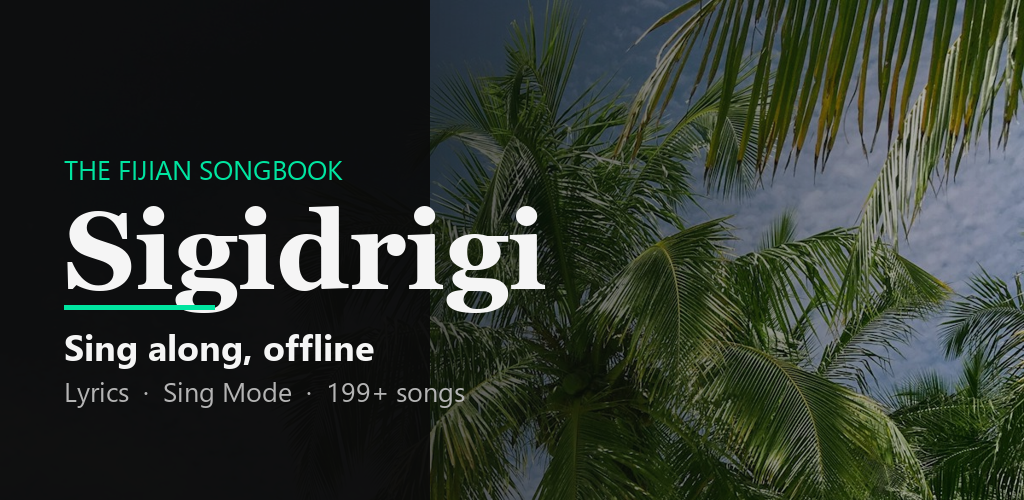
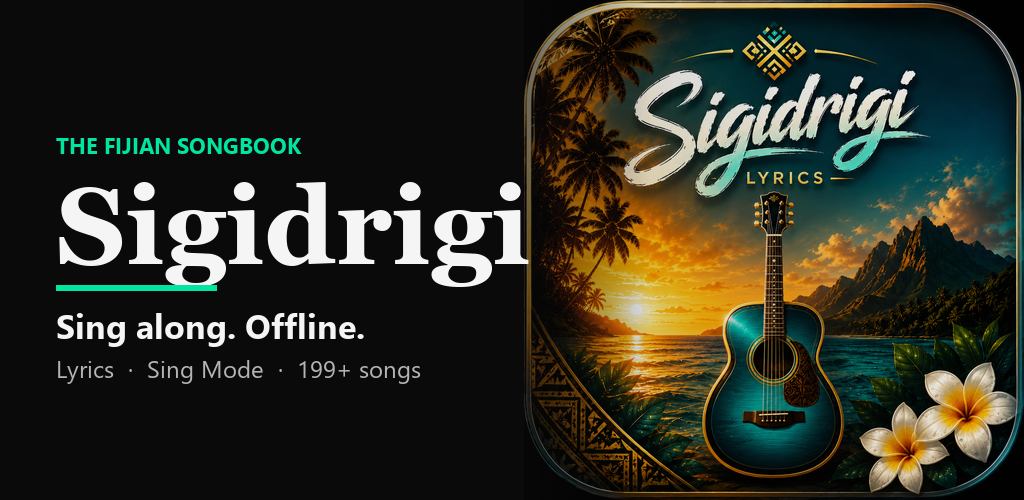
Update feature graphic to use new Sigidrigi guitar/sunset artwork

diff --git a/scripts/make_feature_graphic.py b/scripts/make_feature_graphic.py
@@ -1,6 +1,7 @@
 """Google Play feature graphic — 1024x500.
-On-brand: dark base, a Pacific photo fading in from the right, Sigidrigi
-wordmark + tagline on the left. Run: python scripts/make_feature_graphic.py
+Uses the Sigidrigi icon artwork (guitar/sunset) on the right,
+dark gradient left side for text.
+Run: python scripts/make_feature_graphic.py
 """
 import os
 from PIL import Image, ImageDraw, ImageFont
@@ -9,63 +10,56 @@ W, H = 1024, 500
 ACCENT = (0, 229, 160)
 DARK = (10, 10, 10)
 
-base = Image.new('RGB', (W, H), DARK)
+SRC = r"C:\Users\digit\OneDrive\Desktop\Template Doc\Abuild dcreens\Sigidrigi App\pics\icon.png"
 
-# Right-side photo (palm beach), scaled to cover, then darkened with a
-# left-to-right gradient so the left stays solid for text.
-photo_path = os.path.join(os.path.dirname(__file__), '..', 'public', 'images', 'cards', 'card3.jpg')
-try:
-    photo = Image.open(photo_path).convert('RGB')
-    # cover-fit to WxH
-    pr, br = photo.width / photo.height, W / H
-    if pr > br:
-        nh = H; nw = int(H * pr)
+base = Image.new("RGB", (W, H), DARK)
+
+# Load source artwork — scale to fill height, anchor right
+photo = Image.open(SRC).convert("RGB")
+scale = H / photo.height
+new_w = int(photo.width * scale)
+photo = photo.resize((new_w, H), Image.LANCZOS)
+# Paste flush to the right edge
+paste_x = W - new_w
+base.paste(photo, (paste_x, 0))
+
+# Gradient overlay: fully dark on left, fades to transparent on right
+grad = Image.new("L", (W, 1), 0)
+for x in range(W):
+    if x < 420:
+        a = 255
+    elif x < 650:
+        a = int(255 - (x - 420) / 230 * 220)
     else:
-        nw = W; nh = int(W / pr)
-    photo = photo.resize((nw, nh)).crop((0, 0, W, H))
-    base.paste(photo, (0, 0))
-
-    # Dark gradient: fully dark on the left, ~25% on the far right.
-    grad = Image.new('L', (W, 1), 0)
-    for x in range(W):
-        t = x / W
-        a = int(252 - t * (252 - 70))      # 252 → 70
-        if x < 430:                         # keep the text zone solid
-            a = 248
-        grad.putpixel((x, 0), a)
-    grad = grad.resize((W, H))
-    overlay = Image.new('RGB', (W, H), DARK)
-    base = Image.composite(overlay, base, grad)
-except FileNotFoundError:
-    pass
+        a = max(int(35 - (x - 650) / (W - 650) * 20), 15)
+    grad.putpixel((x, 0), a)
+grad = grad.resize((W, H))
+overlay = Image.new("RGB", (W, H), DARK)
+base = Image.composite(overlay, base, grad)
 
 d = ImageDraw.Draw(base)
 
-def font(path, size):
-    for p in [path, os.path.join('C:\\Windows\\Fonts', path)]:
+def font(name, size):
+    for path in [name, os.path.join("C:\\Windows\\Fonts", name)]:
         try:
-            return ImageFont.truetype(p, size)
+            return ImageFont.truetype(path, size)
         except OSError:
             continue
     return ImageFont.load_default()
 
-title_font = font('georgiab.ttf', 110)
-tag_font = font('segoeuib.ttf', 36)
-sub_font = font('segoeui.ttf', 27)
+f_kicker = font("segoeuib.ttf", 22)
+f_title  = font("georgiab.ttf", 108)
+f_tag    = font("segoeuib.ttf", 34)
+f_sub    = font("segoeui.ttf",  24)
 
-PAD = 64
-# small uppercase kicker
-d.text((PAD, 150), 'THE FIJIAN SONGBOOK', font=sub_font, fill=ACCENT)
-# wordmark
-d.text((PAD, 188), 'Sigidrigi', font=title_font, fill=(245, 245, 245))
-# tagline
-d.text((PAD, 322), 'Sing along, offline', font=tag_font, fill=(245, 245, 245))
-d.text((PAD, 372), 'Lyrics  ·  Sing Mode  ·  199+ songs', font=sub_font, fill=(180, 180, 180))
-# teal accent underline
-d.rectangle([PAD, 305, PAD + 150, 309], fill=ACCENT)
+PAD, Y = 56, 130
 
-out_dir = os.path.join(os.path.dirname(__file__), '..', 'docs', 'store-assets')
-os.makedirs(out_dir, exist_ok=True)
-out = os.path.join(out_dir, 'feature-graphic.png')
+d.text((PAD, Y),         "THE FIJIAN SONGBOOK",          font=f_kicker, fill=ACCENT)
+d.text((PAD, Y + 34),    "Sigidrigi",                    font=f_title,  fill=(245, 245, 245))
+d.rectangle([PAD, Y + 155, PAD + 160, Y + 160],          fill=ACCENT)
+d.text((PAD, Y + 172),   "Sing along. Offline.",          font=f_tag,    fill=(245, 245, 245))
+d.text((PAD, Y + 222),   "Lyrics  ·  Sing Mode  ·  199+ songs", font=f_sub, fill=(180, 180, 180))
+
+out = os.path.abspath(os.path.join(os.path.dirname(__file__), "..", "docs", "store-assets", "feature-graphic.png"))
 base.save(out)
-print(f'Saved feature graphic: {os.path.abspath(out)} ({base.size[0]}x{base.size[1]})')
+print(f"Saved: {out} ({W}x{H})")